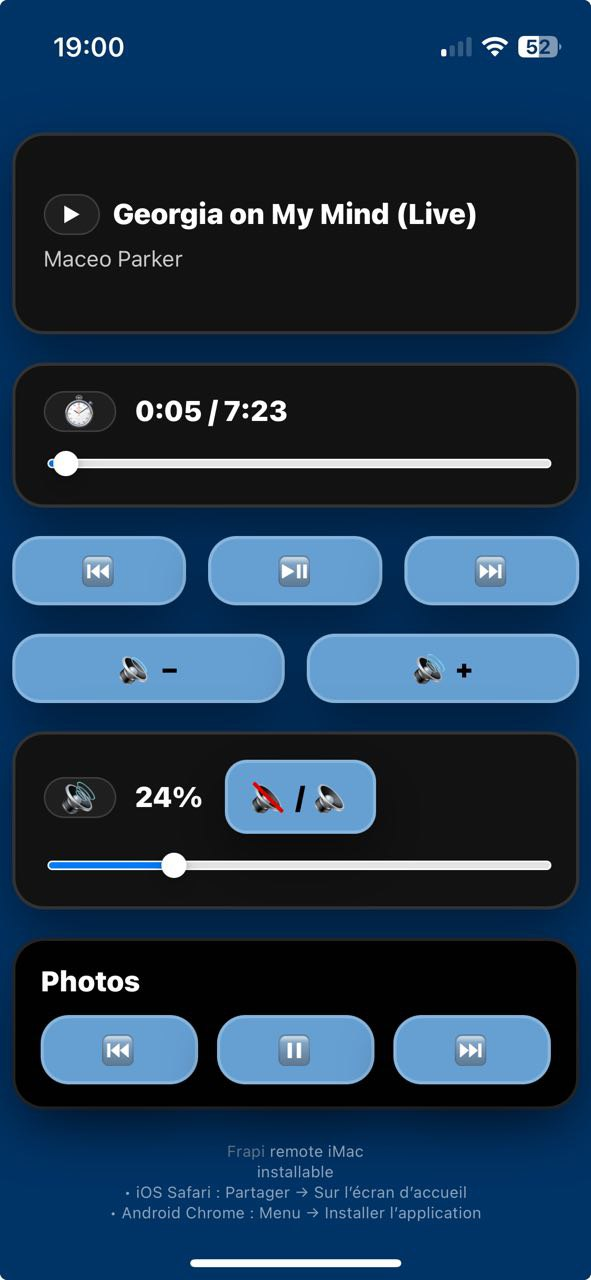
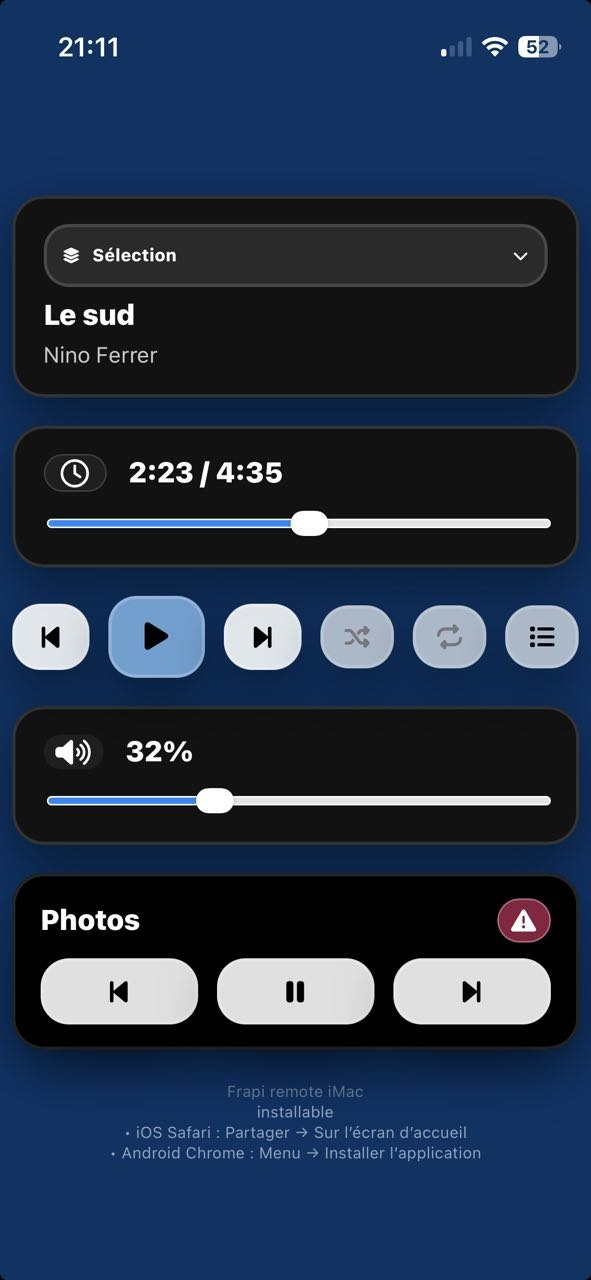
🚸 volume directement accessible

diff --git a/js/ytremote.js b/js/ytremote.js
@@ -31,13 +31,18 @@ async function refresh(){
     }
 
     // état volume
-    const btnVolume = document.getElementById("btnVolume");
-    document.getElementById('vol').value = s.volume;
-    document.getElementById('volLabel').textContent = `${s.volume}%${s.muted ? " (muet)" : ""}`;
-    if (s.muted || s.volume === 0) {
-      btnVolume.innerHTML = '<i class="fa-solid fa-volume-xmark"></i>';
-    } else {
-      btnVolume.innerHTML = '<i class="fa-solid fa-volume-high"></i>';
+    if (typeof s.volume === "number") {
+      const vol = Math.max(0, Math.min(100, Math.round(s.volume)));
+      const volEl = document.getElementById("vol");
+      if (volEl && document.activeElement !== volEl) volEl.value = String(vol);
+      const lbl = document.getElementById("volLabel");
+      if (lbl) lbl.textContent = vol + "%";
+    }
+
+    const muted = !!s.muted || (typeof s.volume === "number" && s.volume === 0);
+    const icon = document.getElementById("volIcon");
+    if (icon) {
+      icon.className = muted ? "fa-solid fa-volume-xmark" : "fa-solid fa-volume-high";
     }
 
     //etat repeat
@@ -164,79 +169,6 @@ async function setSeek(v){
     // optionnel: alert(e)
   }
 }
-
-document
-  .querySelector("#volOverlay .overlay-card")
-  .addEventListener("click", function (e) {
-    e.stopPropagation();
-  });
-
-function uiShowTab(which) {
-  const musicBtn = document.getElementById("tabbtn-music");
-  const photosBtn = document.getElementById("tabbtn-photos");
-  const music = document.getElementById("tab-music");
-  const photos = document.getElementById("tab-photos");
-
-  const isMusic = which === "music";
-  musicBtn.classList.toggle("active", isMusic);
-  photosBtn.classList.toggle("active", !isMusic);
-  musicBtn.setAttribute("aria-selected", String(isMusic));
-  photosBtn.setAttribute("aria-selected", String(!isMusic));
-  music.classList.toggle("active", isMusic);
-  photos.classList.toggle("active", !isMusic);
-
-  // close overlays when switching
-  const volOverlay = document.getElementById("volOverlay");
-  if (volOverlay) {
-    volOverlay.classList.remove("show");
-    volOverlay.setAttribute("aria-hidden", "true");
-  }
-}
-
-function uiToggleVolume() {
-  const el = document.getElementById("volOverlay");
-  if (!el) return;
-  const show = !el.classList.contains("show");
-  el.classList.toggle("show", show);
-  el.setAttribute("aria-hidden", String(!show));
-}
-
-(function () {
-  const btn = document.getElementById("btnVolume");
-  if (!btn) return;
-
-  let longPressTimer = null;
-  let longPressed = false;
-  const LONG_PRESS_MS = 500;
-
-  // TOUCH (mobile)
-  btn.addEventListener("touchstart", (e) => {
-    longPressed = false;
-    longPressTimer = setTimeout(() => {
-      longPressed = true;
-      queueVolume(0);           // MUTE
-    }, LONG_PRESS_MS);
-  }, { passive: true });
-
-  btn.addEventListener("touchend", () => {
-    clearTimeout(longPressTimer);
-  });
-
-  btn.addEventListener("touchcancel", () => {
-    clearTimeout(longPressTimer);
-  });
-
-  // CLICK (desktop + tap court mobile)
-  btn.addEventListener("click", (e) => {
-    if (longPressed) {
-      // on empêche le click après un long press
-      e.preventDefault();
-      e.stopPropagation();
-      return;
-    }
-    uiToggleVolume();           // TAP NORMAL
-  });
-})();
 
 
 function uiToggleQueue() {

diff --git a/ytremote.html b/ytremote.html
@@ -71,10 +71,6 @@
             <i class="fa-solid fa-forward-step"></i>
           </button>
 
-          <button class="btn-icon btn-sm" aria-label="Volume" type="button" id="btnVolume">
-            <i class="fa-solid fa-volume-high"></i>
-          </button>
-
           <button class="btn-icon btn-sm btn-secondary off" onclick="send('/api/shuffle'); this.classList.remove('off')" aria-label="Aléatoire" type="button" id="btnShuffle">
             <i class="fa-solid fa-shuffle"></i>
           </button>
@@ -88,33 +84,26 @@
           </button>
         </div>
 
-        <!-- Volume overlay (hidden by default; JS later) -->
-        <div class="overlay" id="volOverlay" aria-hidden="true">
-          <div class="overlay-card">
-            <div class="overlay-head">
-              <div class="overlay-title">
-                <i class="fa-solid fa-volume-high"></i> <span id="volLabel">—%</span>
-              </div>
-              <button class="btn-close" type="button" onclick="uiToggleVolume()" aria-label="Fermer">
-                <i class="fa-solid fa-xmark"></i>
-              </button>
-            </div>
-
-            <input
-              id="vol"
-              type="range"
-              min="0"
-              max="100"
-              value="50"
-              class="slider"
-              oninput="queueVolume(this.value)"
-            />
-
-            <div class="overlay-hint">
-              Tap : afficher/masquer • 0 : mute
-            </div>
+        <div class="now now-compact">
+          <div class="title title-compact">
+            <span class="pill pill-btn" id="muteBtn" onclick="send('/api/mute-toggle')">
+              <i id="volIcon" class="fa-solid fa-volume-high"></i>
+            </span>
+            <span id="volLabel">—%</span>
           </div>
+
+          <input
+            id="vol"
+            type="range"
+            min="0"
+            max="100"
+            value="50"
+            class="slider"
+            oninput="queueVolume(this.value)"
+          />
         </div>
+
+
         <!-- Playlists overlay (hidden by default; JS later) -->
         <div class="overlay" id="plOverlay" aria-hidden="true">
         <div class="overlay-card">
@@ -159,7 +148,7 @@
       <!-- =============== PHOTOS  =============== -->
         <div class="photos">
           <div class="photos-header">
-            <div class="photos-title">Photos</div>
+            <div class="title">Photos</div>
 
             <button class="btn-alert" onclick="send('/api/photos-playsignal')" title="Signal" type="button" aria-label="Signal">
               <i class="fa-solid fa-triangle-exclamation"></i>

diff --git a/css/ytremote.css b/css/ytremote.css
@@ -67,6 +67,23 @@ body{
   margin-right:8px;
 }
 
+.pill-btn{
+  border: 0;
+  cursor: pointer;
+  color: inherit;
+}
+
+.pill-btn:active{
+  transform: scale(0.98);
+}
+
+#volIcon{
+  width: 18px;
+  display: inline-flex;
+  align-items: center;
+  justify-content: center;
+}
+
 /* Sliders */
 .slider{
   width: 100%;
@@ -77,7 +94,7 @@ body{
 .controls-row{
   width:min(980px, 96vw);
   display:grid;
-  grid-template-columns: 1fr 1.25fr 1fr .95fr .95fr .95fr .95fr;
+  grid-template-columns: 1fr 1.25fr 1fr .95fr .95fr .95fr;
   gap: 12px;
   align-items:center;
 }
@@ -275,12 +292,6 @@ button{
   box-shadow: 0 12px 34px rgba(0,0,0,.45);
 }
 
-.photos-title{
-  font-size: 18px;
-  font-weight: 900;
-  margin: 0;
-}
-
 .photos-header{
   display:flex;
   align-items:center;
@@ -317,7 +328,7 @@ button{
 .btn-alert:hover{ background:#a8244a; }
 .btn-alert:active{ transform: scale(0.95); }
 
-/* Overlay (volume sheet) */
+/* Overlay sheets */
 .overlay{
   position: fixed;
   inset: 0;

diff --git a/ytremote.py b/ytremote.py
@@ -374,7 +374,6 @@ class Handler(BaseHTTPRequestHandler):
                 self._send(500, (out + "\n").encode("utf-8", "ignore"))
             return
         if p == "/api/mute-toggle":
-            # unused (mute by volume 0), but kept for compatibility
             rc, out = run_cmd(
                 ["bash", "-lc", "pactl set-sink-mute @DEFAULT_SINK@ toggle"]
             )

diff --git a/README.md b/README.md
@@ -19,5 +19,7 @@ L'ordi concerné est sous kubuntu 24.04 (X11 nécessaire)
 - d'abord corriger le problème des photos mal orientées...
 - passer remote en service user
 
-- gestion du shuffle pas conforme à la spec...
+- gestion du shuffle pas conforme à la spec... faut trouver où ds state il me renvoie l'info de shuffled ou pas.
+    en shuff, on a tjrs selectedItemIndex à 0; ms ds la 1e chanson de normal, aussi
+    en regardant ds le code de https://github.com/ytmdesktop/ytmdesktop , je trouve pas de shuffle en state, juste en action (donc qui comm ande le bouton de l'interface ?) 
 - thumbnail éventuellement, mais bon bof
